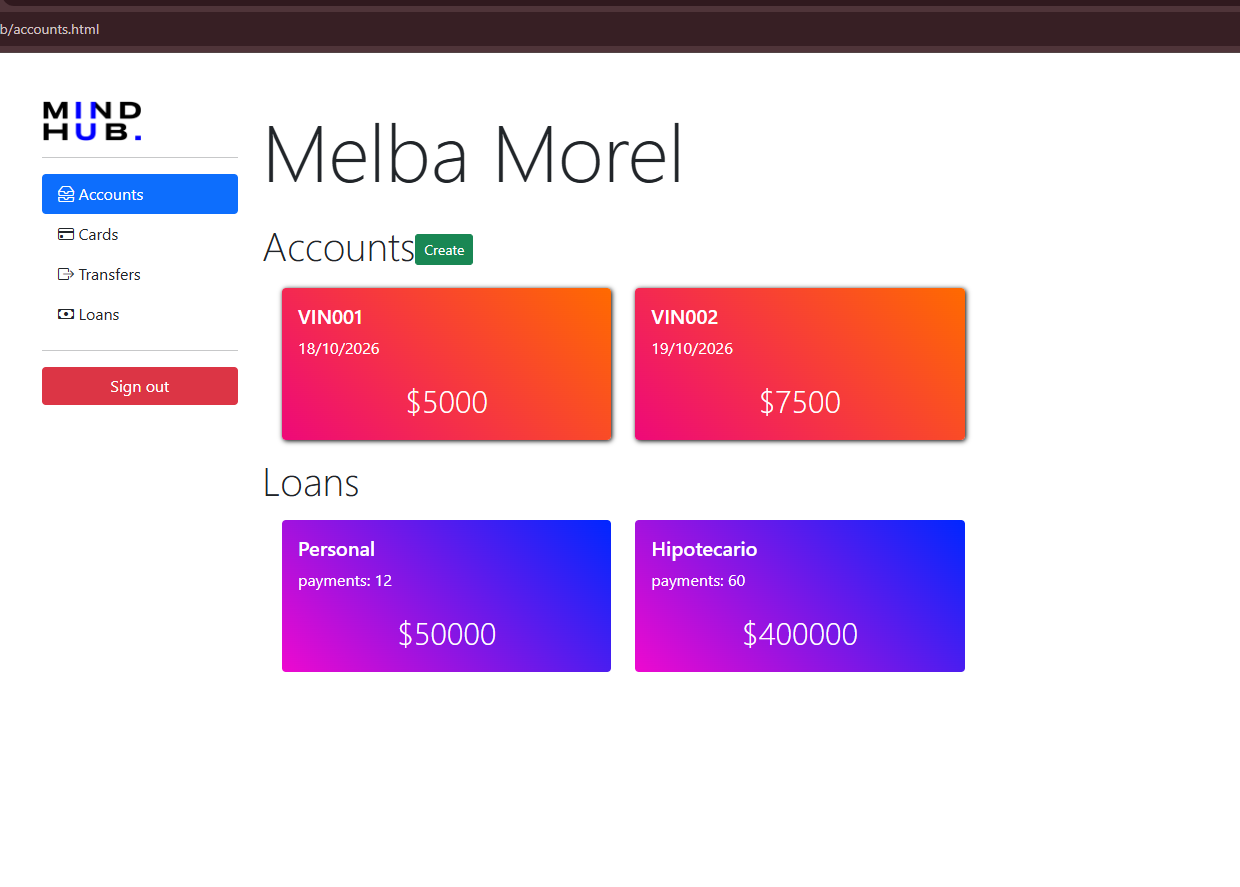
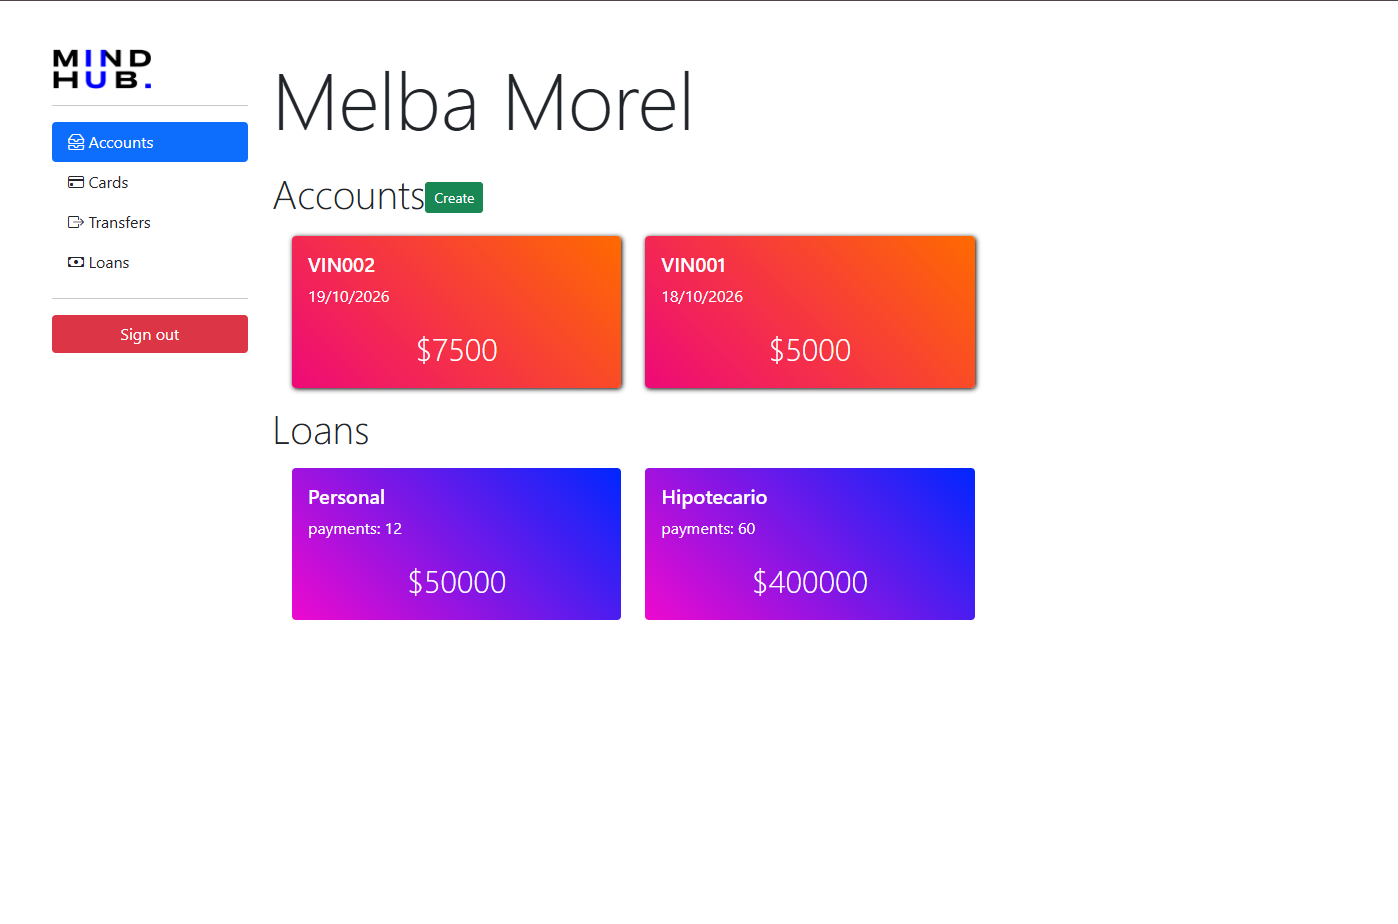
Add consistent desktop README screenshots

diff --git a/README.md b/README.md
@@ -41,11 +41,27 @@ No se encontró un archivo `LICENSE` en el repositorio. Antes de reutilizar la i
 
 Las siguientes capturas corresponden a la versión actual ejecutada localmente con los datos ficticios de demostración. No contienen información bancaria real.
 
-### Vista principal
+Las capturas fueron tomadas en el mismo viewport desktop y se incorporan sin deformar sus proporciones.
 
-<p align="center">
-  <img src="src/main/resources/static/web/img/screenshot-accounts.png" alt="Vista desktop de cuentas y préstamos" width="100%">
-</p>
+### Inicio de sesión
+
+![Pantalla de inicio de sesión](src/main/resources/static/web/img/screenshot-login.png)
+
+### Cuentas y préstamos
+
+![Vista de cuentas y préstamos](src/main/resources/static/web/img/screenshot-accounts.png)
+
+### Tarjetas
+
+![Vista de tarjetas](src/main/resources/static/web/img/screenshot-cards.png)
+
+### Transferencias
+
+![Vista de transferencias](src/main/resources/static/web/img/screenshot-transfers.png)
+
+### Préstamos
+
+![Vista de préstamos](src/main/resources/static/web/img/screenshot-loans.png)
 
 ## Requisitos para Windows
 
